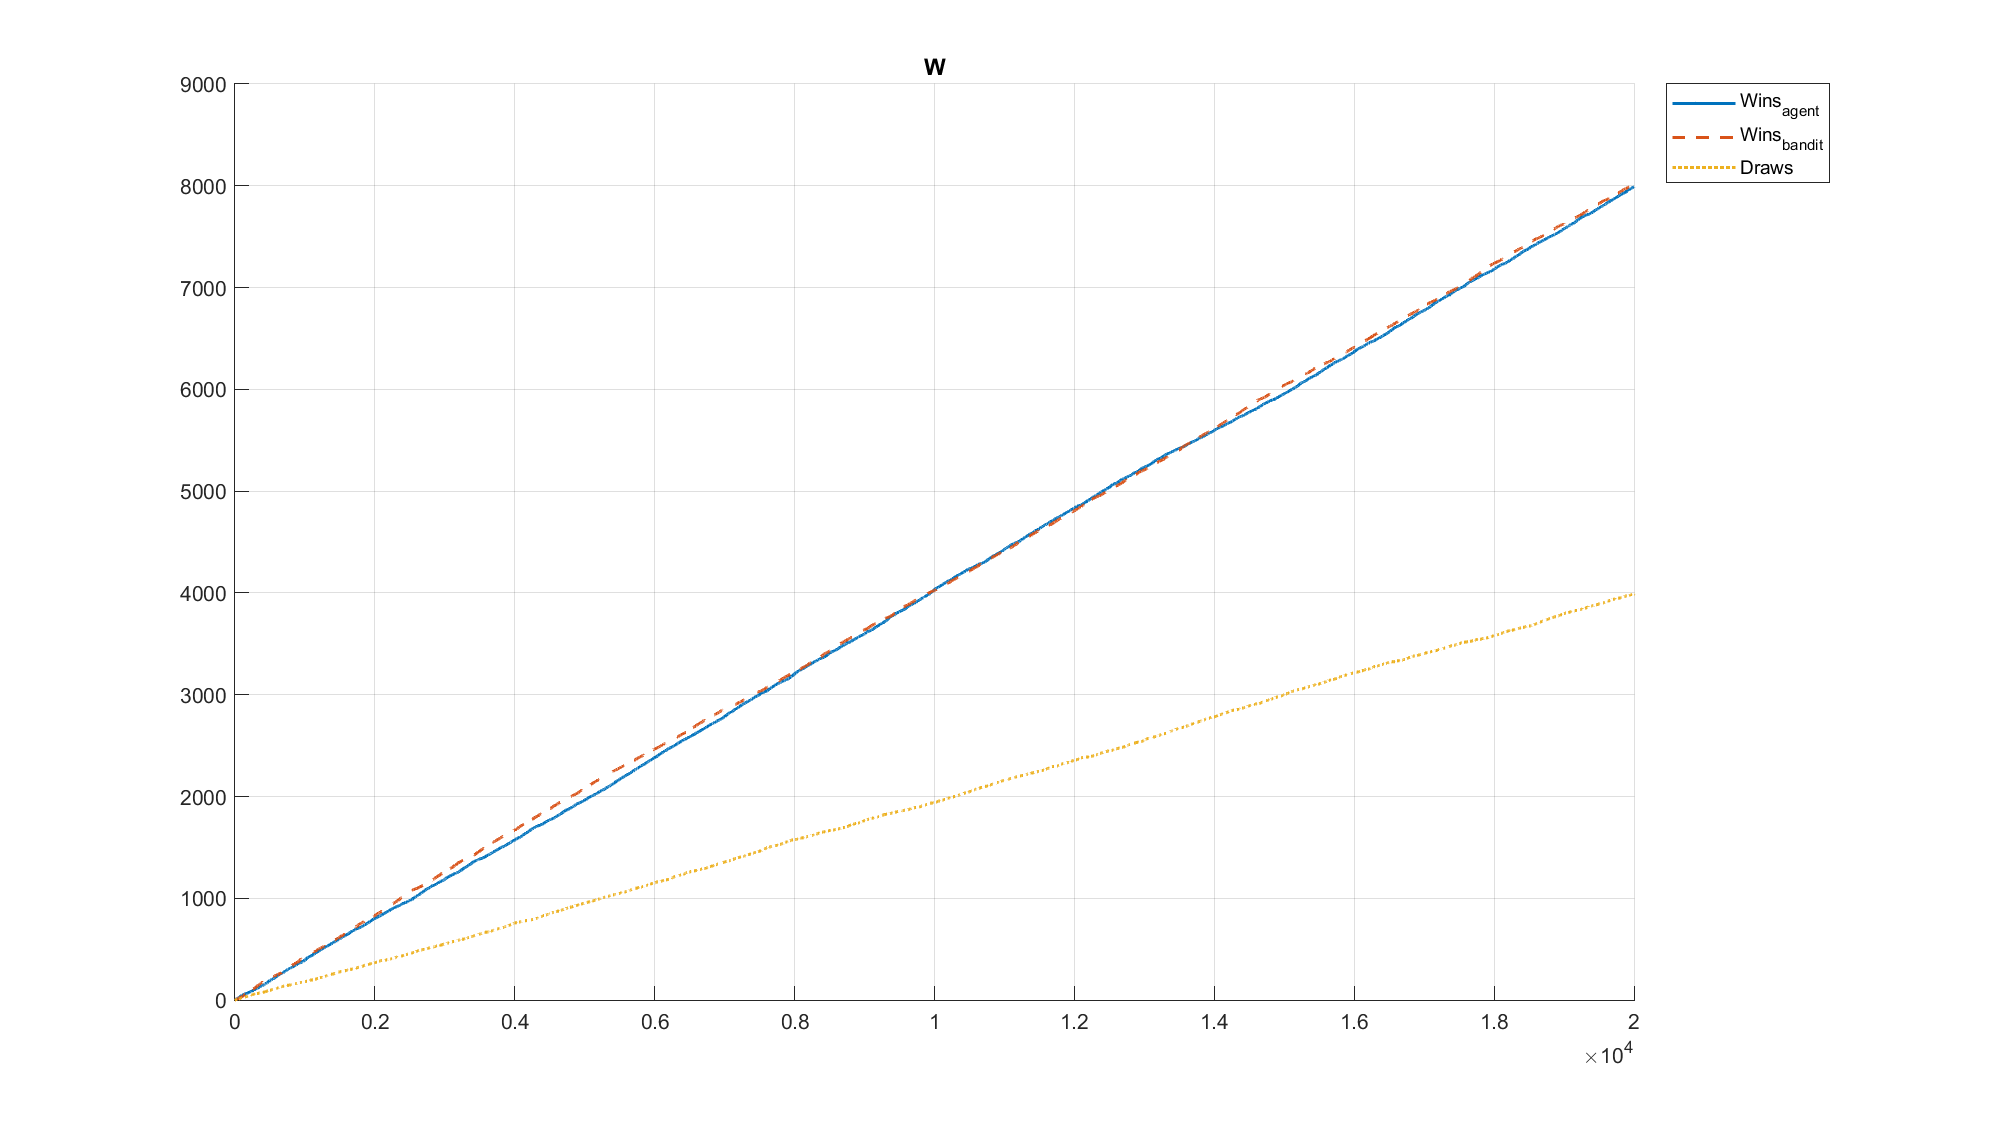
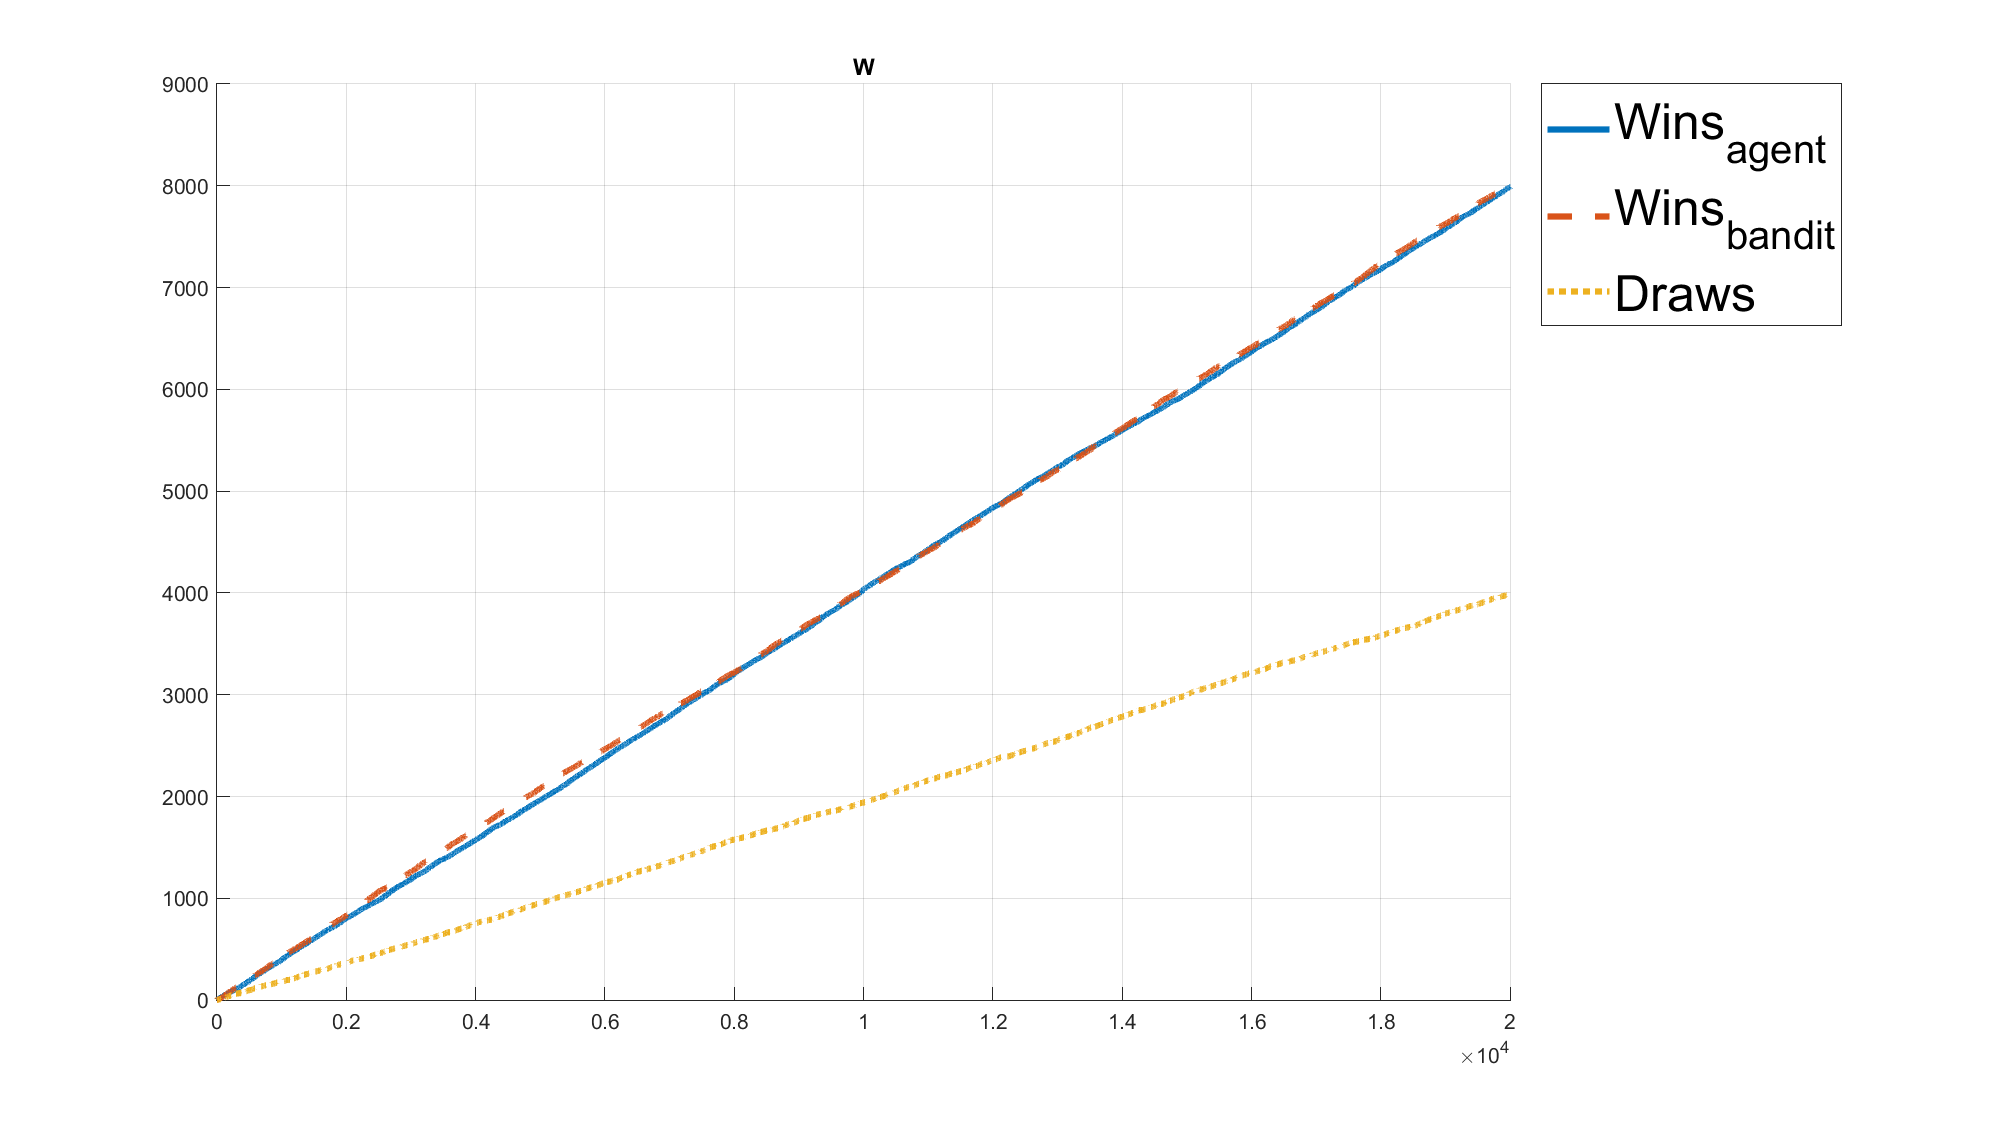
rel1, #18: graphs for equiprobable stationary case

diff --git a/rel1/stationary_equiprobable_case/UCB_s_ep.m b/rel1/stationary_equiprobable_case/UCB_s_ep.m
@@ -15,6 +15,11 @@ N = zeros(A, 1); % number of times we take each action
 historyQ = zeros(A, lengthEpisode);
 historyN = zeros(A, lengthEpisode);
 
+% ----------Setup match result history-----------------
+historyW = zeros(3, lengthEpisode);     % history of match result
+W = [0,0,0];                            % counter for [agent 1 win, agent 2 win, draws]
+
+% -----------------------------------------------------
 for i = 1:lengthEpisode
 
     Qext = Q + c*sqrt(log(i)./(N+1)); % extended value function
@@ -24,6 +29,16 @@ for i = 1:lengthEpisode
     agent_int = agent_int(randi(length(agent_int))); % parity broken by random
 
     r = bandit_s_ep(agent_int); % compute reward
+
+    % ---------Update match result history---------------------
+    if r == 1
+        W = W + [1, 0, 0];
+    elseif r == -1
+        W = W + [0, 1, 0];
+    else
+        W = W + [0, 0, 1];
+    end
+    historyW(:,i) = W;
 
     % update N and Q
     N(agent_int) = N(agent_int) + 1;
@@ -36,12 +51,60 @@ end
 
 %% plots
 
-% plot the history of Q
-figure()
-plot(historyQ','LineWidth',2)
-legend('Rock', 'Paper', 'Scissors', 'Spock', 'Lizard')
+%-----------------plot the history of Q------------------------------------
+% Fixed
+figure('Position', [0 0 1280 720])
+hold on
+% Graph content
+title('Q')
+plot(historyQ', 'LineWidth', 3)
+lgn = legend('Rock', 'Paper', 'Scissors', 'Spock', 'Lizard');
+lgn.FontSize = 24;
+set(gca, 'ColorOrder', colors(5))
+% Fixed
+grid on
+lgn.Location = 'northeastoutside';
+hold off
+% Save
+saveas(gcf, "graphs/ucb/Q", "png")
+%--------------------------------------------------------------------------
 
-% plot the history of N
-figure()
-plot(historyN','LineWidth',2)
-legend('Rock', 'Paper', 'Scissors', 'Spock', 'Lizard')
+%-----------------plot the history of N------------------------------------
+% Fixed
+figure('Position', [0 0 1280 720])
+hold on
+% Graph content
+title('N')
+plot(historyN', 'LineWidth', 3)
+lgn = legend('Rock', 'Paper', 'Scissors', 'Spock', 'Lizard');
+lgn.FontSize = 24;
+set(gca, 'ColorOrder', colors(5))
+% Fixed
+grid on
+lgn.Location = 'northeastoutside';
+hold off
+% Save
+saveas(gcf, "graphs/ucb/N", "png")
+%--------------------------------------------------------------------------
+
+%-----------------plot the history of W------------------------------------
+% Fixed
+figure('Position', [0 0 1280 720])
+hold on
+% Graph content
+title('W')
+plot(historyW(1,:)', 'LineWidth', 3)
+plot(historyW(2,:)', 'LineWidth', 3, 'LineStyle','--')
+plot(historyW(3,:)', 'LineWidth', 3, 'LineStyle',':')
+lgn = legend('Wins_{agent}', 'Wins_{bandit}', 'Draws');
+lgn.FontSize = 24;
+set(gca, 'ColorOrder', colors(3))
+% Fixed
+grid on
+lgn.Location = 'northeastoutside';
+hold off
+% Save
+saveas(gcf, "graphs/ucb/W", "png")
+%--------------------------------------------------------------------------
+
+% close all

diff --git a/rel1/stationary_equiprobable_case/PreferenceUpdates_s_ep.m b/rel1/stationary_equiprobable_case/PreferenceUpdates_s_ep.m
@@ -15,6 +15,11 @@ avg_r = 0; % initialization of average reward
 % save history of H
 historyH = zeros(A, lengthEpisode);
 
+% ----------Setup match result history-----------------
+historyW = zeros(3, lengthEpisode);     % history of match result
+W = [0,0,0];                            % counter for [agent 1 win, agent 2 win, draws]
+
+% -----------------------------------------------------
 for i = 1:lengthEpisode
 
     Proba = exp(H)/sum(exp(H)); % Compute softmax for each action
@@ -24,6 +29,17 @@ for i = 1:lengthEpisode
     agent_int = find(rand < csProba, 1, "first");
 
     r = bandit_s_ep(agent_int); % compute reward
+
+    % ---------Update match result history---------------------
+    if r == 1
+        W = W + [1, 0, 0];
+    elseif r == -1
+        W = W + [0, 1, 0];
+    else
+        W = W + [0, 0, 1];
+    end
+    historyW(:,i) = W;
+    % -----------------------------------------------------
 
     H(agent_int) = H(agent_int) + alpha*(r - avg_r)*(1-Proba(agent_int)); % update taken action preference
 
@@ -40,7 +56,40 @@ end
 
 %% plots
 
-% plot the history of Q
-figure()
-plot(historyH','LineWidth',2)
-legend('Rock', 'Paper', 'Scissors', 'Spock', 'Lizard')
+%-----------------plot the history of N------------------------------------
+% Fixed
+figure('Position', [0 0 1280 720])
+hold on
+% Graph content
+title('H')
+plot(historyH', 'LineWidth', 3)
+lgn = legend('Rock', 'Paper', 'Scissors', 'Spock', 'Lizard');
+lgn.FontSize = 24;
+set(gca, 'ColorOrder', colors(5))
+% Fixed
+grid on
+lgn.Location = 'northeastoutside';
+hold off
+% Save
+saveas(gcf, "graphs/preference_updates/H", "png")
+%--------------------------------------------------------------------------
+
+%-----------------plot the history of W------------------------------------
+% Fixed
+figure('Position', [0 0 1280 720])
+hold on
+% Graph content
+title('W')
+plot(historyW(1,:)', 'LineWidth', 3)
+plot(historyW(2,:)', 'LineWidth', 3, 'LineStyle','--')
+plot(historyW(3,:)', 'LineWidth', 3, 'LineStyle',':')
+lgn = legend('Wins_{agent}', 'Wins_{bandit}', 'Draws');
+lgn.FontSize = 24;
+set(gca, 'ColorOrder', colors(3))
+% Fixed
+grid on
+lgn.Location = 'northeastoutside';
+hold off
+% Save
+saveas(gcf, "graphs/preference_updates/W", "png")
+%--------------------------------------------------------------------------

diff --git a/rel1/stationary_equiprobable_case/e_greedy_s_ep.m b/rel1/stationary_equiprobable_case/e_greedy_s_ep.m
@@ -18,8 +18,8 @@ historyN = zeros(A, lengthEpisode);
 % ----------Setup match result history-----------------
 historyW = zeros(3, lengthEpisode);     % history of match result
 W = [0,0,0];                            % counter for [agent 1 win, agent 2 win, draws]
-% -----------------------------------------------------
 
+% -----------------------------------------------------
 for i = 1:lengthEpisode
 
     if rand < epsilon
@@ -61,8 +61,9 @@ figure('Position', [0 0 1280 720])
 hold on
 % Graph content
 title('Q')
-plot(historyQ', 'LineWidth', 1.5)
+plot(historyQ', 'LineWidth', 3)
 lgn = legend('Rock', 'Paper', 'Scissors', 'Spock', 'Lizard');
+lgn.FontSize = 24;
 set(gca, 'ColorOrder', colors(5))
 % Fixed
 grid on
@@ -78,8 +79,9 @@ figure('Position', [0 0 1280 720])
 hold on
 % Graph content
 title('N')
-plot(historyN', 'LineWidth', 1.5)
+plot(historyN', 'LineWidth', 3)
 lgn = legend('Rock', 'Paper', 'Scissors', 'Spock', 'Lizard');
+lgn.FontSize = 24;
 set(gca, 'ColorOrder', colors(5))
 % Fixed
 grid on
@@ -95,10 +97,11 @@ figure('Position', [0 0 1280 720])
 hold on
 % Graph content
 title('W')
-plot(historyW(1,:)', 'LineWidth', 1.5)
-plot(historyW(2,:)', 'LineWidth', 1.5, 'LineStyle','--')
-plot(historyW(3,:)', 'LineWidth', 1.5, 'LineStyle',':')
+plot(historyW(1,:)', 'LineWidth', 3)
+plot(historyW(2,:)', 'LineWidth', 3, 'LineStyle','--')
+plot(historyW(3,:)', 'LineWidth', 3, 'LineStyle',':')
 lgn = legend('Wins_{agent}', 'Wins_{bandit}', 'Draws');
+lgn.FontSize = 24;
 set(gca, 'ColorOrder', colors(3))
 % Fixed
 grid on

diff --git a/rel2/gambler_policy_evaluation.m b/rel2/gambler_policy_evaluation.m
@@ -3,7 +3,7 @@ close all
 clc
 
 rng(1)
-load jac_car_rental_model.mat
+load gambler_model.mat
 gamma = 0.9;
 
 policy = randi(A, [S, 1]);
@@ -21,8 +21,8 @@ vpi = zeros(S,1);
 % tic
 while true
     % policy evaluation step
-    % vpi = policy_eval(S,P,R,policy,gamma);
-    vpi = iterative_policy_eval(S,P,R,policy,gamma,vpi);
+    vpi = policy_eval(S,P,R,policy,gamma);
+    % vpi = iterative_policy_eval(S,P,R,policy,gamma,vpi);
     % quality function
     qpi = zeros(S,A);
     % new policy

diff --git a/rel2/policy_eval.m b/rel2/policy_eval.m
@@ -13,4 +13,4 @@ end
 
 % solve directly the Bellman equation
 vpi = (eye(S) - gamma*Ppi)\Rpi;
-% inv(eye(S) - gamma*Ppi)*Rpi
+% vpi = inv(eye(S) - gamma*Ppi)*Rpi;
